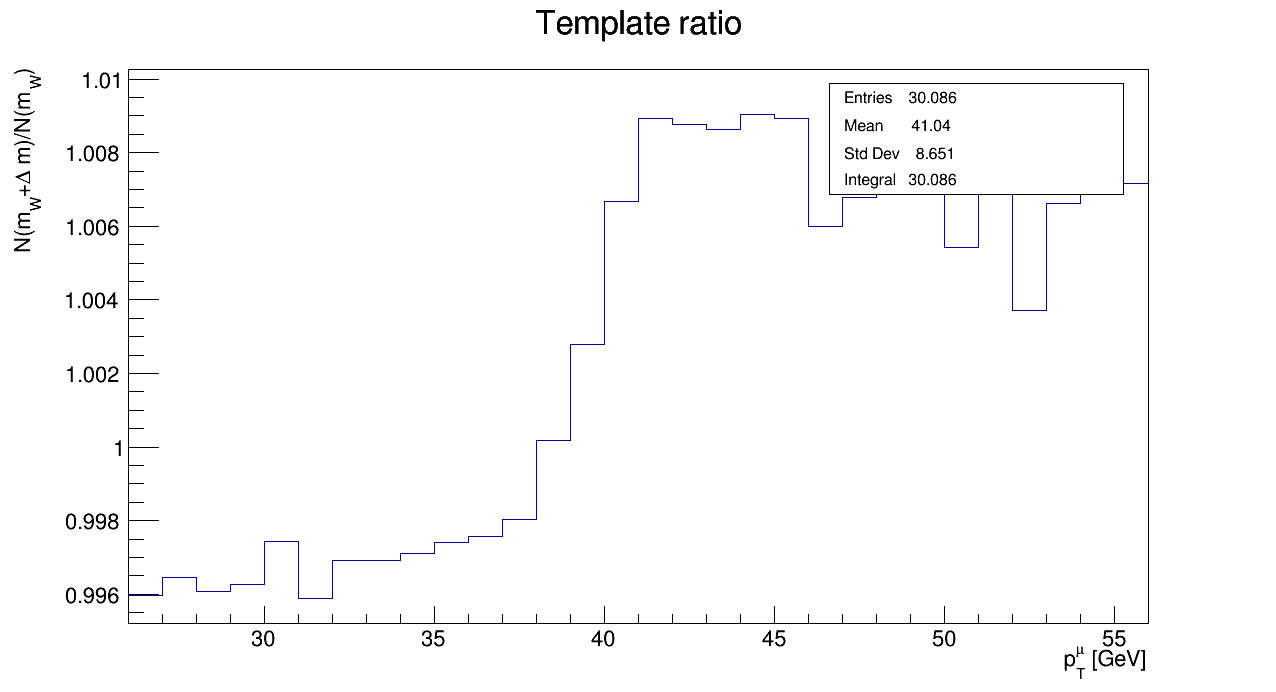
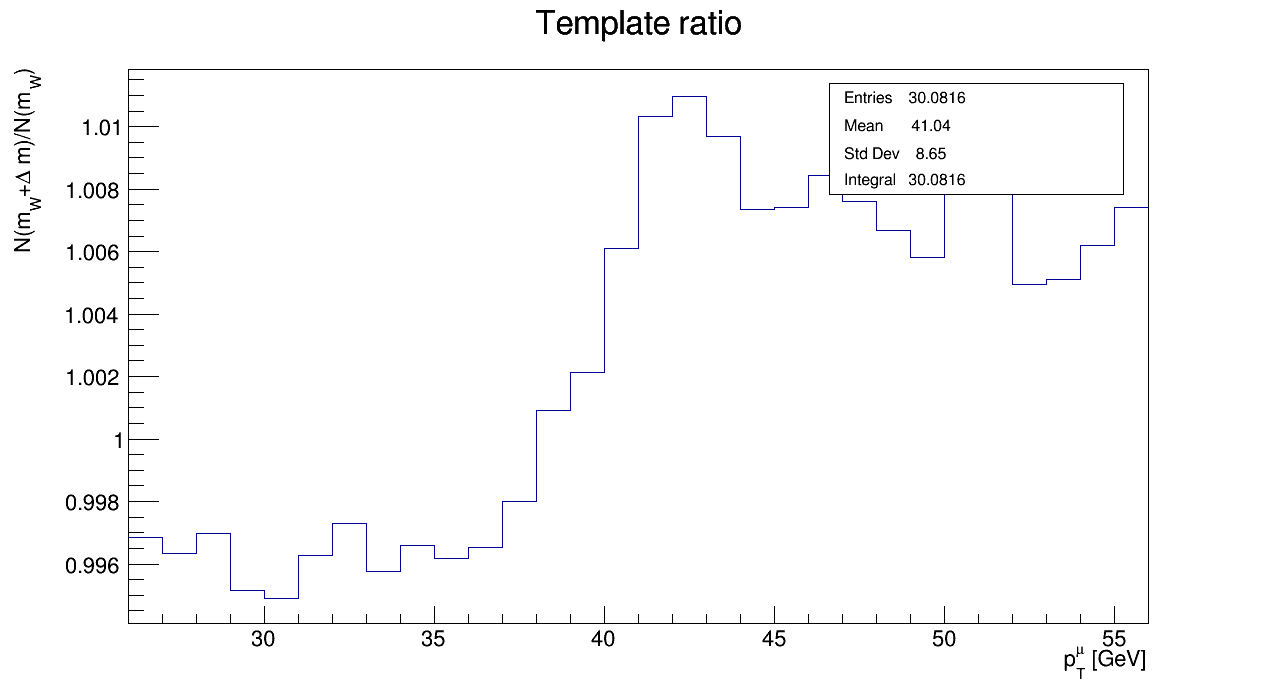
correzione generazione del bosone W tramite la rapidità

diff --git a/src/WDecaySampler.cpp b/src/WDecaySampler.cpp
@@ -39,8 +39,6 @@ double generate_random_gaussian(double mean, double sigma,Func&& rand)
 
 template<std::invocable Func>
 double generate_random_eta(Func&& rand) {
-    //TODO: definire una distribuzione effettiva
-
     double cos_theta = rand() * 2.0 - 1.0;
     return std::atanh(cos_theta);
 }
@@ -70,8 +68,26 @@ double generate_random_phi(Func&& rand) {
     return rand() * 2.0 * M_PI;
 } 
 
+template<std::invocable Func>
+double generate_random_rapidity(double min_rapidity, double max_rapidity, Func&& rand) {
+    return rand() * (max_rapidity - min_rapidity) + min_rapidity;
+} 
+
+
+ROOT::Math::PxPyPzEVector calculate_boson_p(double m_mass,double pTW, double rapidity, double phi)
+{
+    double mT = std::sqrt(m_mass * m_mass + pTW * pTW);
+    return {
+        pTW * std::cos(phi),
+        pTW * std::sin(phi),
+        mT * std::sinh(rapidity),
+        mT * std::cosh(rapidity)
+    };
+}
+
 WDecaySampler::Event WDecaySampler::operator()() const
 {
+    //generatore di numeri casuali per ogni singolo thread così da evitare race conditions
     thread_local auto rand = [](){
         thread_local std::mt19937 gen(
             std::random_device{}()
@@ -81,28 +97,36 @@ WDecaySampler::Event WDecaySampler::operator()() const
         return dist(gen);
     };
 
+    //variabili utili per il calcolo del quadrimpulso del bosone W nel laboratorio
     double pTW{ (*pT_local_generators[ThreadID::get()])() };
-
-    //eta ancora non ben specificato
-    double eta{ generate_random_eta(rand) };
-    double phi{ generate_random_phi(rand)};
     double invariant_mass{ generate_random_invariant_mass(WMass, WWidth, rand) };
-    auto muon_p{ generate_random_muon_p_rest_frame(invariant_mass, MUON_MASS, rand) };
+    double rapidity{ generate_random_rapidity(MIN_RAPIDITY, MAX_RAPIDITY, rand) };
+    double phi{ generate_random_phi(rand) };
 
-    auto neutrino_p{ - muon_p };
-
-    ROOT::Math::PtEtaPhiMVector W_p{ pTW, eta, phi, invariant_mass };
-
+    auto W_p{ calculate_boson_p(invariant_mass, pTW, rapidity, phi) };
     ROOT::Math::XYZVector beta{
         W_p.Px() / W_p.E(),
         W_p.Py() / W_p.E(),
         W_p.Pz() / W_p.E(),
     };
 
+    //momenti del muone e del neutrino nel sistema di riferimento a riposo del bosone W
+    auto muon_p{ generate_random_muon_p_rest_frame(invariant_mass, MUON_MASS, rand) };
+
+    ROOT::Math::PxPyPzEVector neutrino_p{ 
+        -muon_p.Px(),
+        -muon_p.Py(),
+        -muon_p.Pz(),
+        muon_p.P() //il neutrino ha massa trascurabile
+    };
+
+    //applico il boost alle due particelle per portarle nel sistema del laboratorio
     ROOT::Math::Boost boost(beta);
     muon_p = boost(muon_p);
     neutrino_p = boost(neutrino_p);
 
+
+    //calcolo della massa trasversa 
     double pt_mu = muon_p.Pt();
     double pt_nu = neutrino_p.Pt();
 

diff --git a/src/MassSensitivityAnalyzer.cpp b/src/MassSensitivityAnalyzer.cpp
@@ -12,24 +12,20 @@ MassSensitivityAnalyzer::MassSensitivityAnalyzer(TH1D* h0, TH1D* h1, double delt
     ratioHist->SetTitle("Template ratio; p_{T}^{#mu} [GeV];N(m_{W}+#Delta m)/N(m_{W})");
     ratioHist->Divide(h0);
     
-    double norm0 = h0->Integral("width");
-    double norm1 = h1->Integral("width");
+    double norm0 = h0->Integral();
+    double norm1 = h1->Integral();
 
     double fisher = 0.0;
 
     for (int i = 1; i <= h0->GetNbinsX(); ++i)
     {
-        double p0 = h0->GetBinContent(i) * h0->GetBinWidth(i) / norm0;
-        double p1 = h1->GetBinContent(i) * h1->GetBinWidth(i) / norm1;
-
-        if (p0 <= 0.0)
-            continue;
-
+        double p0 = h0->GetBinContent(i) / norm0;
+        double p1 = h1->GetBinContent(i) / norm1;
         double dpdm = (p1 - p0) / deltaMass;
 
         fisher += dpdm * dpdm / p0;
     }
-
+    
     sigmaMass = 1.0 / std::sqrt(h0->Integral() * fisher);
 }
 

diff --git a/main.cpp b/main.cpp
@@ -225,12 +225,12 @@ int main(int argc, char** argv)
         throw std::runtime_error{ "Impossibile creare sigma_mass.txt" };
 
     output << "sigma_mass = " << sigma << " GeV\n\n"
-           << "Execution time = " << elapsed.count() / 1000. << " s\n";
+           << "execution time = " << elapsed.count() / 1000. << " s\n";
 
     output.close();
 
     std::cout << "sigma_mass = " << sigma << " GeV\n\n"
-              << "Execution time = " << elapsed.count() / 1000. << " s\n";
+              << "execution time = " << elapsed.count() / 1000. << " s\n";
 
     return 0;
 }

diff --git a/include/WDecaySampler.hpp b/include/WDecaySampler.hpp
@@ -74,6 +74,8 @@ public:
     ~WDecaySampler() = default;
 
     static constexpr double MUON_MASS = 0.105658; // GeV/c^2
+    static constexpr double MIN_RAPIDITY = -3.0;
+    static constexpr double MAX_RAPIDITY = 3.0;
 private:
     double WMass, WWidth;
     std::vector<std::unique_ptr<Generator>> pT_local_generators;
